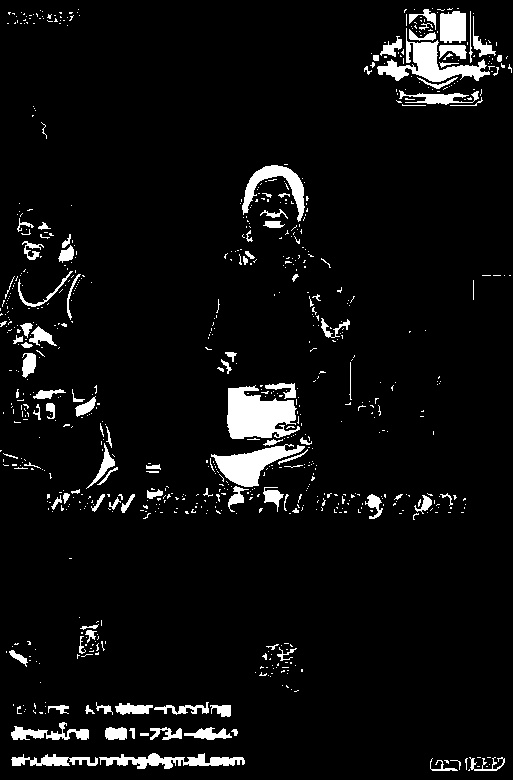
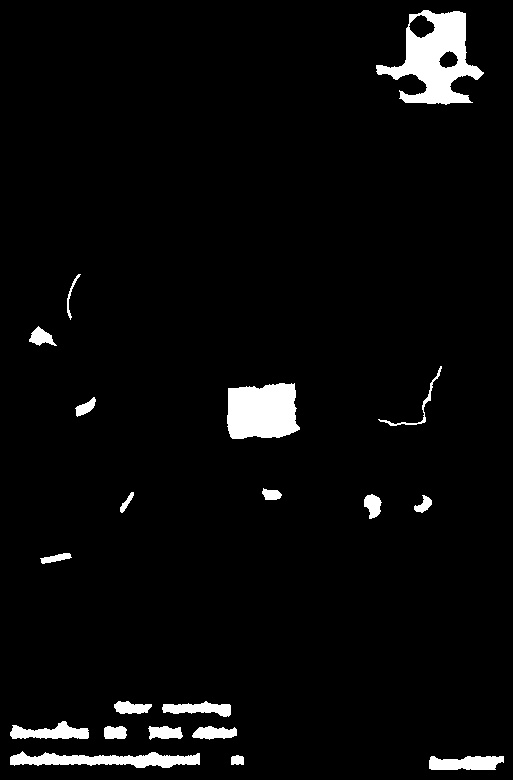
dot 2 method

diff --git a/multiply.py b/multiply.py
@@ -6,27 +6,36 @@ from scipy import ndimage as ndi
 from skimage import morphology
 import matplotlib.image as mpimg
 from matplotlib.image import imsave
-edge = cv2.imread('E:/git/testnc/outedge.jpg')
+from skimage.data import data_dir
+from skimage.util import img_as_ubyte
+from skimage import io
+from skimage.morphology import erosion, dilation, opening, closing, white_tophat
+from skimage.morphology import black_tophat, skeletonize, convex_hull_image
+from skimage.morphology import disk
+edge = cv2.imread('E:/git/testnc/sobelfill.jpg')
 edgegray = cv2.cvtColor(edge,cv2.COLOR_BGR2GRAY)
 copedge = edgegray
 copedge[copedge<127]=0
 copedge[copedge>=127]=255
 cv2.imshow("edge",edgegray)
-kmean = cv2.imread('E:/git/testnc/outkmean.jpg')
-kmeangray = cv2.cvtColor(kmean,cv2.COLOR_BGR2GRAY)
-copkmean = kmeangray
-cv2.imshow("kmean",kmeangray)
+kmean = cv2.imread('E:/git/testnc/outkmean.jpg',0)
+copkmean = kmean
+cv2.imshow("kmean",kmean)
 copkmean[copkmean<127]=0
 copkmean[copkmean>=127]=1
 dot = copkmean*copedge
 cv2.imshow("dot",dot)
 #fill hole of sign
 fill_img = ndi.binary_fill_holes(dot)
+img_cleaned = morphology.remove_small_objects(fill_img, 100)
+selem = disk(6)
+closed = closing(img_cleaned, selem)
+
 fig, ax = plt.subplots(figsize=(4, 3))
-ax.imshow(fill_img, cmap=plt.cm.gray, interpolation='nearest')
+ax.imshow(closed, cmap=plt.cm.gray, interpolation='nearest')
 ax.axis('off')
 ax.set_title('Filling the holes')
-imguint = np.uint8(fill_img)
+imguint = np.uint8(closed)
 imguint[imguint==1] = 255
 cv2.imwrite("outdot.jpg", imguint)
 plt.show()

diff --git a/testnsc.py b/testnsc.py
@@ -6,7 +6,7 @@ from scipy import ndimage as ndi
 from skimage import morphology
 import matplotlib.image as mpimg
 from matplotlib.image import imsave
-modelcolor = cv2.imread('E:/git/testnc/tum/tum 1361.JPG')
+modelcolor = cv2.imread('E:/git/testnc/tum/k32.JPG')
 #modelcolor = cv2.cvtColor(modelcolor,cv2.COLOR_BGR2HLS)
 #modelcolor = cv2.cvtColor(modelcolor,cv2.COLOR_BGR2HSV)
 cv2.imshow("modelcolor",modelcolor)
@@ -32,7 +32,7 @@ ax.axis('off')
 ax.set_title('Filling the holes')
 
 #remove noise
-img_cleaned = morphology.remove_small_objects(fill_img, 21)
+img_cleaned = morphology.remove_small_objects(fill_img, 100)
 imguint = np.uint8(img_cleaned)
 print imguint
 imguint[imguint==1] = 255

diff --git a/Eachrgb.py b/Eachrgb.py
@@ -75,7 +75,7 @@ binary_adaptive = 255-binary_adaptive
 crop_bisobel = binary_adaptive[10:height-10, 10:width-10]
 cv2.imshow('binary sobel',binary_adaptive)
 fill_img = ndi.binary_fill_holes(crop_bisobel)
-img_cleaned = morphology.remove_small_objects(fill_img, 21)
+img_cleaned = morphology.remove_small_objects(fill_img, 100)
 outsobeladaptive = np.uint8(img_cleaned)
 outsobeladaptive[outsobeladaptive>=1] = 255
 cv2.imwrite('sobelfill.jpg',outsobeladaptive)
